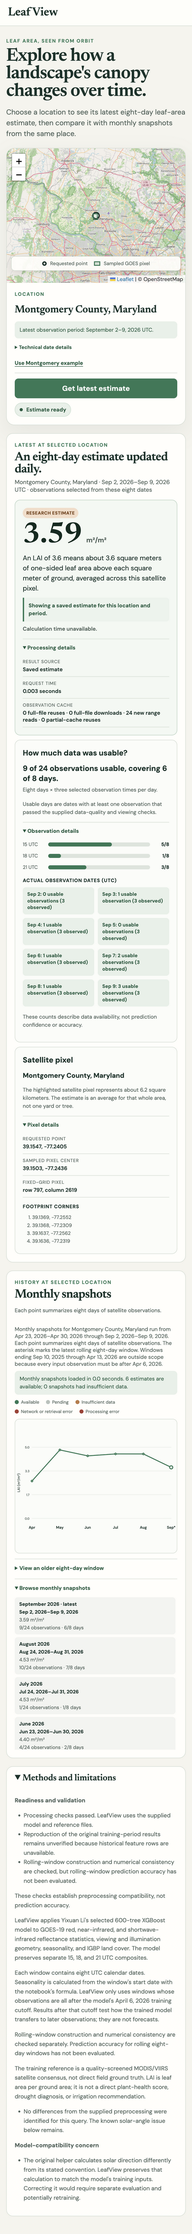
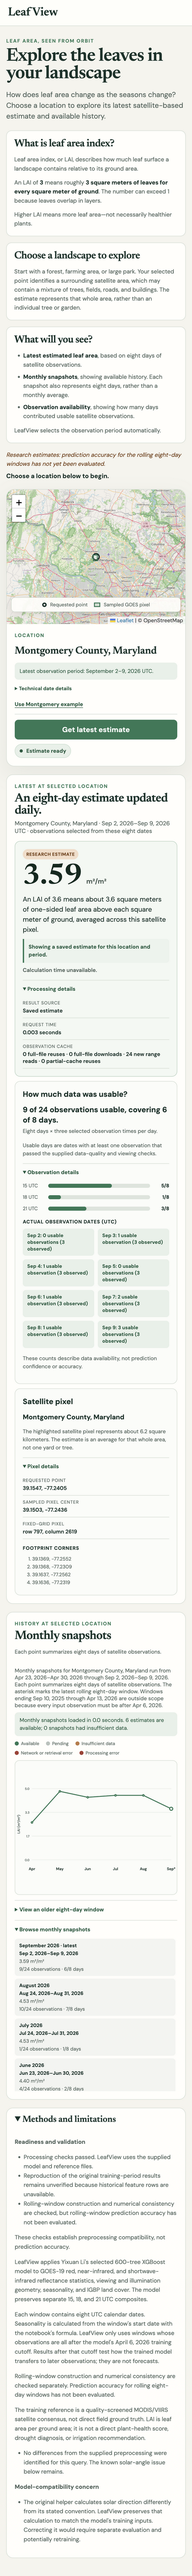
Add LeafView introduction above map

Changed region(s): [[0.0302, 0.0, 0.9674, 0.9952], [0.8465, 0.3732, 0.8767, 0.4043], [0.8163, 0.4665, 0.8465, 0.4976]]

diff --git a/static/app.css b/static/app.css
@@ -19,13 +19,24 @@ header { min-height: 64px; padding: 0 max(24px, 5vw); display: flex; align-items
 .brand span, .research { font: 600 12px "DM Sans", sans-serif; color: var(--muted); margin-left: 10px; }
 .research { text-transform: uppercase; letter-spacing: .08em; }
 main { width: min(1380px, 100%); margin: auto; padding: 36px 32px 56px; }
-.intro { max-width: 850px; margin-bottom: 24px; }
+.intro { margin-bottom: 24px; }
 .eyebrow { margin: 0 0 7px; text-transform: uppercase; letter-spacing: .13em; font-weight: 700; font-size: 11px; color: var(--leaf); }
 h1, h2 { font-family: Newsreader, serif; letter-spacing: -.018em; }
 h1 { font-size: clamp(40px, 5vw, 64px); line-height: .98; margin: 8px 0 14px; }
 h2 { font-size: 30px; margin: 0; }
 h3 { margin: 0 0 12px; font-size: 17px; }
-.intro > p:last-child { max-width: 760px; margin: 0; font-size: 17px; line-height: 1.55; color: var(--muted); }
+.intro-lead { max-width: 760px; margin: 0; color: var(--muted); font-size: 17px; line-height: 1.55; }
+.intro-guide { display: grid; grid-template-columns: repeat(3, minmax(0, 1fr)); gap: 14px; margin: 24px 0 16px; }
+.intro-guide article { min-width: 0; padding: 20px; border: 1px solid var(--line); border-radius: 12px; background: var(--card); }
+.intro-guide h2 { margin-bottom: 12px; font-size: 24px; line-height: 1.08; }
+.intro-guide p, .intro-guide li { color: var(--muted); font-size: 13px; line-height: 1.55; }
+.intro-guide p { margin: 0 0 11px; }
+.intro-guide p:last-child { margin-bottom: 0; }
+.intro-guide ul { margin: 0 0 12px; padding-left: 20px; }
+.intro-guide li + li { margin-top: 7px; }
+.intro-guide strong { color: var(--ink); }
+.intro-caveat { max-width: 900px; margin: 0 0 8px; color: var(--warn); font-size: 13px; line-height: 1.55; }
+.intro-begin { margin: 0; color: var(--ink); font-size: 14px; }
 
 .workspace { display: grid; grid-template-columns: minmax(0, 2.15fr) minmax(310px, .85fr); align-items: stretch; background: var(--card); border: 1px solid var(--line); border-radius: 18px; overflow: hidden; box-shadow: 0 18px 50px #17332a12; }
 .map-wrap { position: relative; min-width: 0; min-height: 460px; overflow: hidden; background: #dfe8dc; }
@@ -162,6 +173,8 @@ dd { margin: 3px 0 0; color: var(--ink); font-weight: 600; font-size: 12px; font
 
 @media (max-width: 920px) {
   main { padding-inline: 20px; }
+  .intro-guide { grid-template-columns: 1fr 1fr; }
+  .intro-guide article:last-child { grid-column: 1 / -1; }
   .workspace { grid-template-columns: 1.35fr 1fr; }
   .example-grid { grid-template-columns: 1fr 1fr; }
   .spatial-card { grid-column: 1 / -1; }
@@ -174,7 +187,11 @@ dd { margin: 3px 0 0; color: var(--ink); font-weight: 600; font-size: 12px; font
   .intro { margin-bottom: 20px; }
   h1 { font-size: 40px; }
   h2 { font-size: 27px; }
-  .intro > p:last-child { font-size: 16px; line-height: 1.5; }
+  .intro-lead { font-size: 16px; line-height: 1.5; }
+  .intro-guide { grid-template-columns: 1fr; margin-top: 20px; }
+  .intro-guide article { padding: 17px; }
+  .intro-guide article:last-child { grid-column: auto; }
+  .intro-guide h2 { font-size: 23px; }
   .workspace, .example-grid, .trend-card { grid-template-columns: 1fr; }
   .map-wrap { height: 300px; min-height: 300px; }
   .map-legend { right: 10px; bottom: 27px; left: 10px; justify-content: center; flex-wrap: wrap; }

diff --git a/templates/index.html b/templates/index.html
@@ -18,8 +18,35 @@
   <main>
     <section class="intro">
       <p class="eyebrow">Leaf area, seen from orbit</p>
-      <h1>Explore how a landscape's canopy changes over time.</h1>
-      <p>Choose a location to see its latest eight-day leaf-area estimate, then compare it with monthly snapshots from the same place.</p>
+      <h1>Explore the leaves in your landscape</h1>
+      <p class="intro-lead">How does leaf area change as the seasons change? Choose a location to explore its latest satellite-based estimate and available history.</p>
+
+      <div class="intro-guide">
+        <article>
+          <h2>What is leaf area index?</h2>
+          <p>Leaf area index, or LAI, describes how much leaf surface a landscape contains relative to its ground area.</p>
+          <p>An LAI of <strong>3</strong> means roughly <strong>3 square meters of leaves for every square meter of ground</strong>. The number can exceed 1 because leaves overlap in layers.</p>
+          <p>Higher LAI means more leaf area—not necessarily healthier plants.</p>
+        </article>
+
+        <article>
+          <h2>Choose a landscape to explore</h2>
+          <p>Start with a forest, farming area, or large park. Your selected point identifies a surrounding satellite area, which may contain a mixture of trees, fields, roads, and buildings. The estimate represents that whole area, rather than an individual tree or garden.</p>
+        </article>
+
+        <article>
+          <h2>What will you see?</h2>
+          <ul>
+            <li><strong>Latest estimated leaf area</strong>, based on eight days of satellite observations.</li>
+            <li><strong>Monthly snapshots</strong>, showing available history. Each snapshot also represents eight days, rather than a monthly average.</li>
+            <li><strong>Observation availability</strong>, showing how many days contributed usable satellite observations.</li>
+          </ul>
+          <p>LeafView selects the observation period automatically.</p>
+        </article>
+      </div>
+
+      <p class="intro-caveat"><em>Research estimates: prediction accuracy for the rolling eight-day windows has not yet been evaluated.</em></p>
+      <p class="intro-begin"><strong>Choose a location below to begin.</strong></p>
     </section>
 
     <section class="workspace" aria-label="Selected query">

diff --git a/tests/test_core.py b/tests/test_core.py
@@ -363,6 +363,15 @@ def test_ui_uses_location_first_latest_estimate_and_query_bound_progressive_hist
     assert "preprocessing compatibility, not prediction accuracy" in template
     assert "not a direct plant-health score" in template
     assert "An eight-day estimate updated daily." in template
+    assert "Explore the leaves in your landscape" in template
+    assert "What is leaf area index?" in template
+    assert "3 square meters of leaves for every square meter of ground" in template
+    assert "Choose a landscape to explore" in template
+    assert "Latest estimated leaf area" in template
+    assert "Observation availability" in template
+    assert "LeafView selects the observation period automatically." in template
+    assert "Research estimates: prediction accuracy for the rolling eight-day windows has not yet been evaluated." in template
+    assert "Choose a location below to begin." in template
     assert "View an older eight-day window" in template
     assert "History at selected location" in template
     assert "Monthly snapshots" in template
